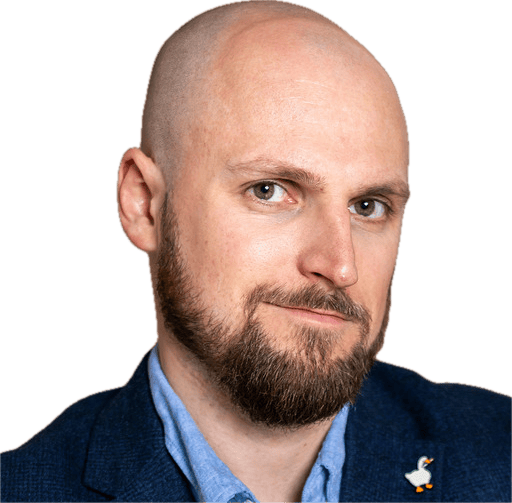
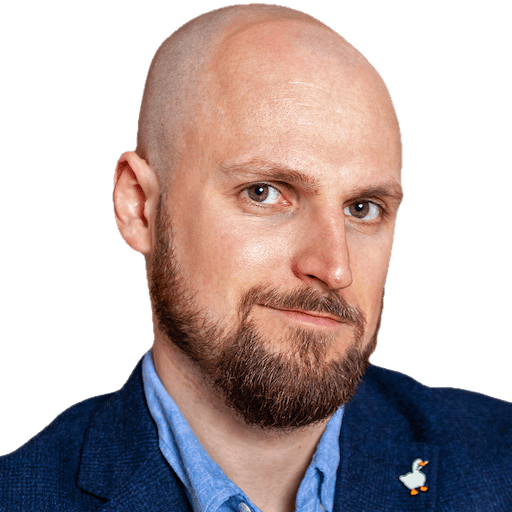
Swap in the new 1:1 headshot (512x512 cutout)
- Replace /headshot.png with the user's square 1:1 cutout (optimized,
  transparent bg preserved) — displays cleanly in the square hero portrait.
- Regenerate the OG card from the same headshot so site and share card
  show the same photo. (make_assets CUTOUT path repointed.)

Changed region(s): [[0.0, 0.0, 1.0, 1.0]]

diff --git a/build/make_assets.py b/build/make_assets.py
@@ -20,7 +20,7 @@ ROOT = os.path.dirname(HERE)
 FONTS = os.path.join(HERE, "fonts")
 GOLOS = os.path.join(FONTS, "Commissioner-600.ttf")  # display font (name/role/EF monogram)
 LIT_IT = os.path.join(FONTS, "Literata-Italic.ttf")
-CUTOUT = "/Users/eugene/Downloads/slack-cutout.opt.png"
+CUTOUT = "/Users/eugene/Downloads/headshot.opt.png"
 
 # --- site palette (from index.html :root) ---
 PAPER = (250, 247, 240)   # #FAF7F0  --bg
